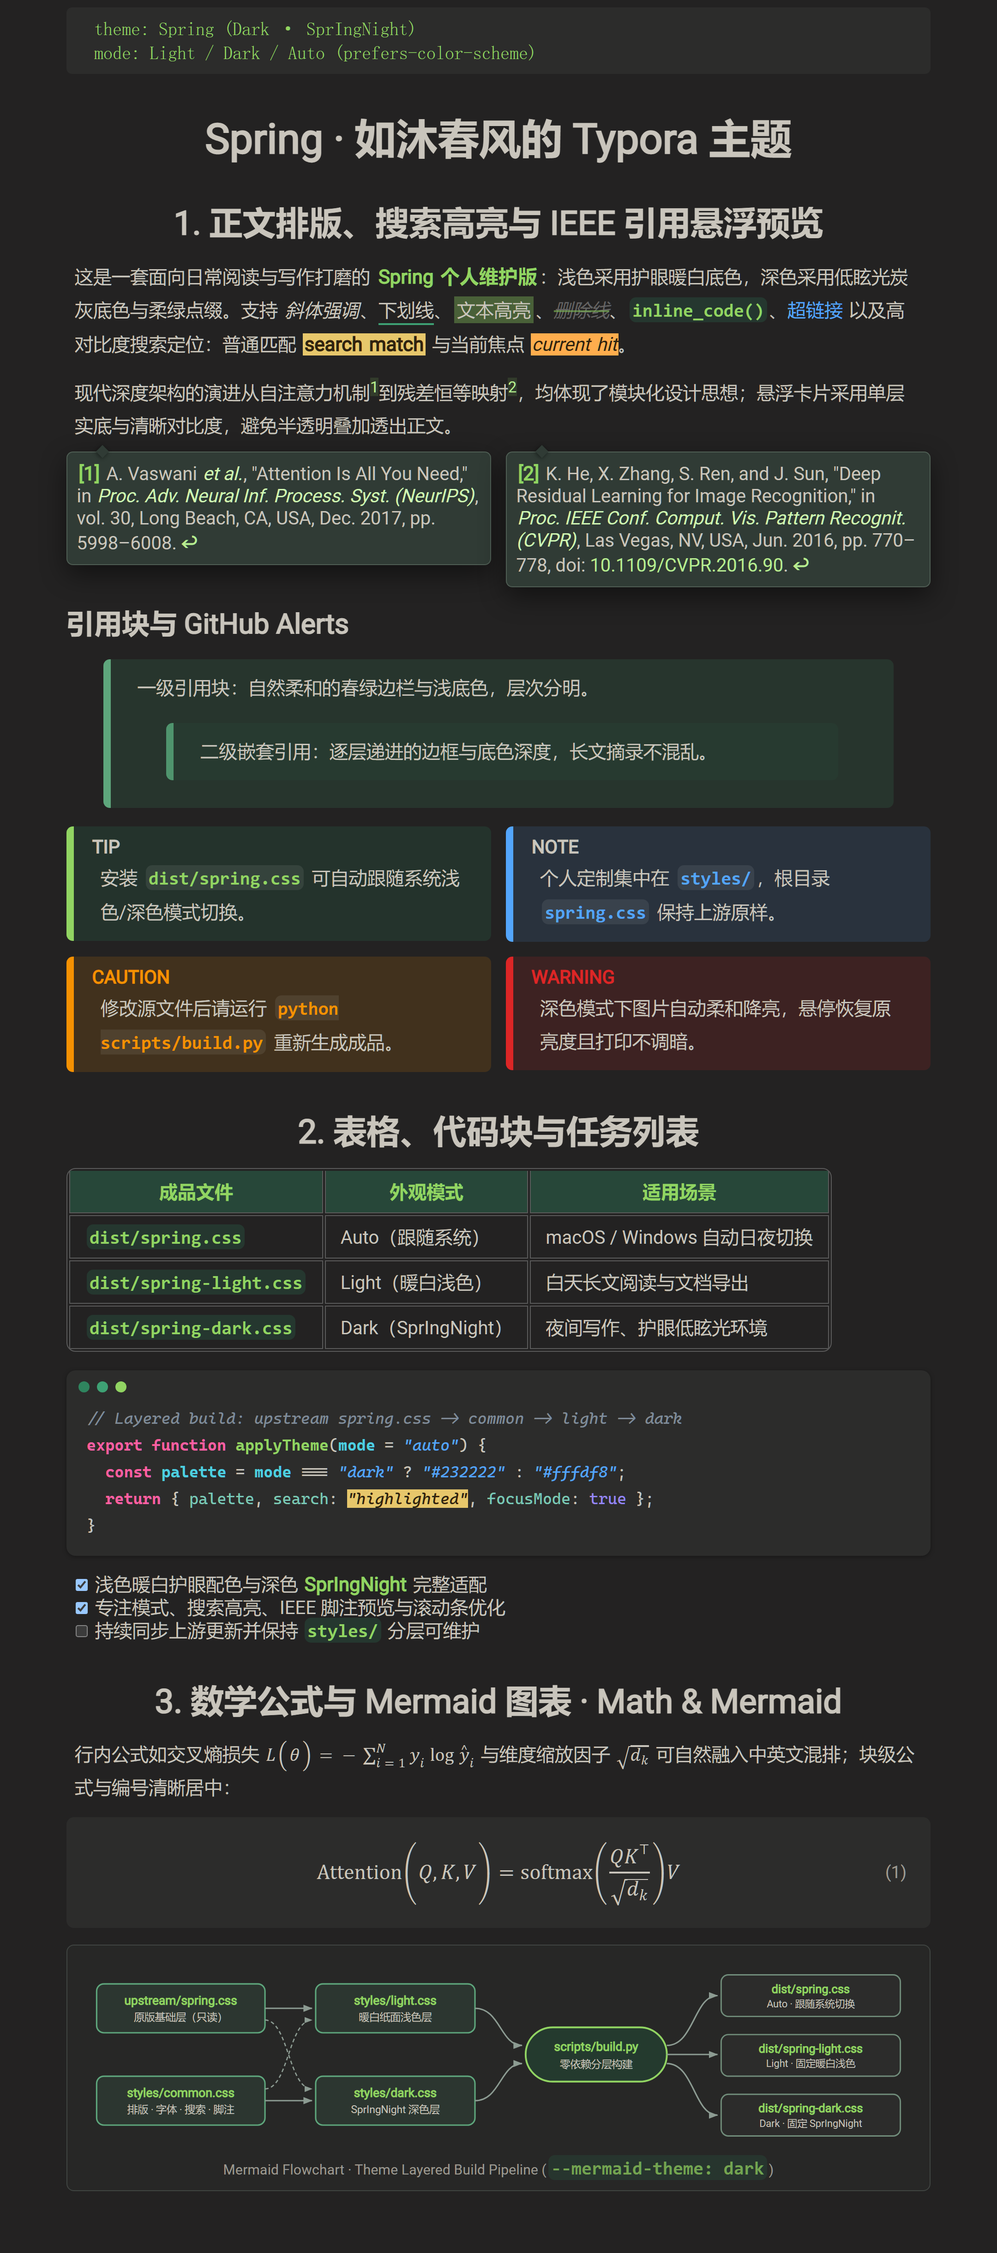
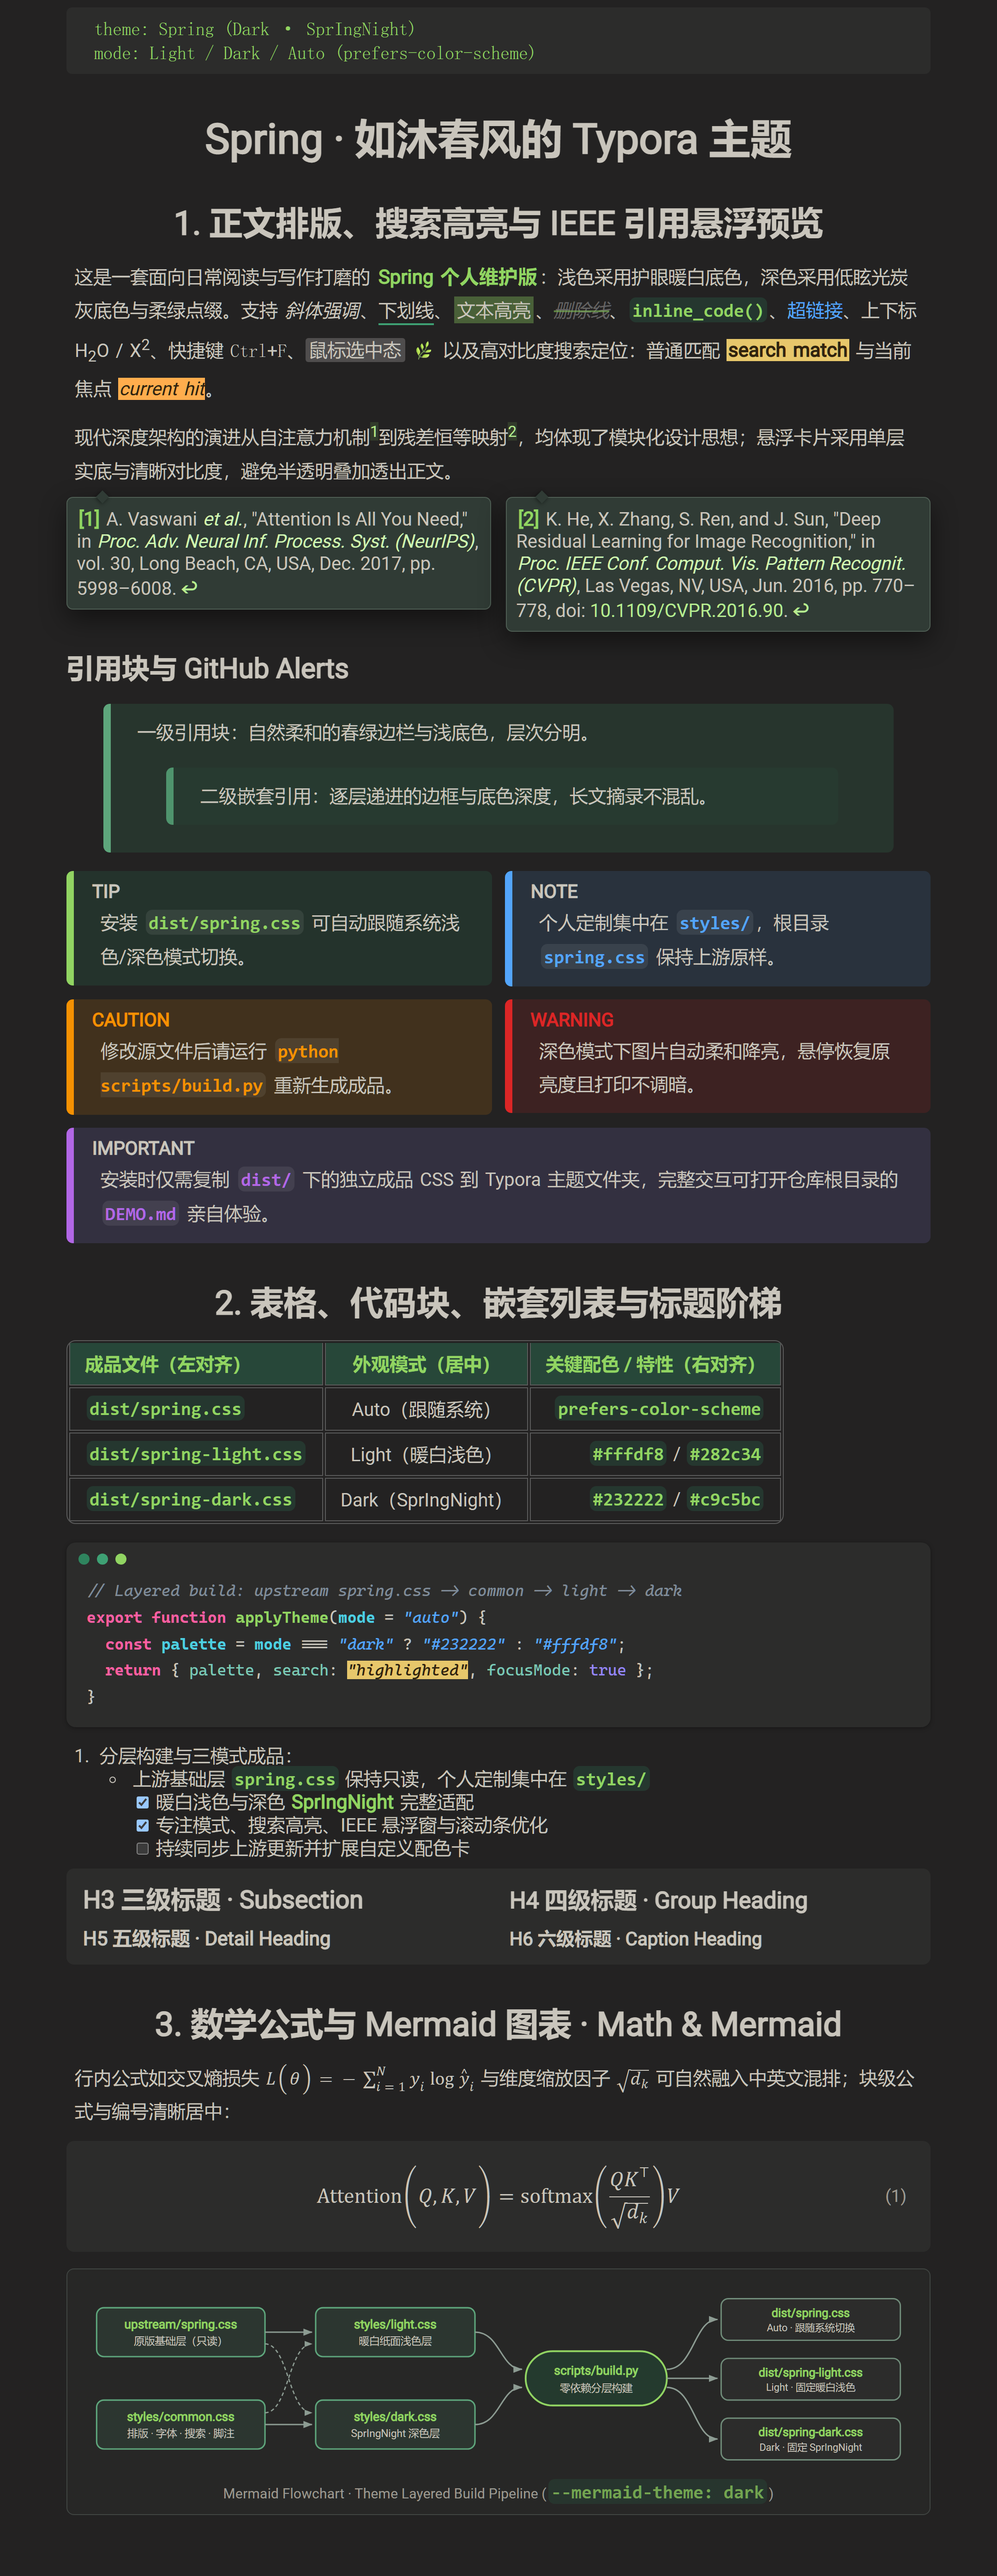
Add interactive DEMO.md and enrich light/dark theme previews

Changed region(s): [[0.062, 0.0, 0.9306, 0.9656], [0.1551, 0.0, 0.1861, 0.0311], [0.0931, 0.0, 0.1241, 0.0311]]

diff --git a/DEMO.md b/DEMO.md
@@ -1,0 +1,191 @@
+---
+theme: Spring (Light / Dark / Auto)
+branch: hy-spring
+author: Fona1347 (upstream: SprInec/typora-spring-theme)
+---
+
+# Spring Theme · 完整样式演示文档 (Demo)
+
+> [!TIP]
+> 在 Typora 中安装 [`dist/spring.css`](dist/spring.css)（自动跟随系统）、[`dist/spring-light.css`](dist/spring-light.css)（暖白浅色）或 [`dist/spring-dark.css`](dist/spring-dark.css)（SprIngNight 深色）后，直接打开本文件即可体验所有静态排版与动态交互效果（悬停反馈、专注模式、Ctrl+F 搜索高亮、脚注悬浮窗与滚动条）。
+
+## 目录 · Table of Contents
+
+[TOC]
+
+---
+
+## 1. 六级标题阶梯 · Headings (H1 – H6)
+
+# H1 一级标题 · Primary Document Title
+## H2 二级标题 · Section Heading
+### H3 三级标题 · Subsection Heading
+#### H4 四级标题 · Group Heading
+##### H5 五级标题 · Detail Heading
+###### H6 六级标题 · Caption Heading
+
+---
+
+## 2. 中英双语正文与行内元素 · Typography & Inline Styles
+
+这是一段用于测试中英文混排与行内样式的正文：**加粗强调（Bold）**、*斜体文字（Italic）*、<u>下划线（Underline）</u>、==荧光高亮（Highlight）==、~~删除线（Strikethrough）~~、`inline_code()`、[超链接样式](https://github.com/Fona1347/typora-spring-theme)、化学与数学上下标 H~2~O / X^2^、快捷键 <kbd>Ctrl</kbd> + <kbd>F</kbd> / <kbd>⌘</kbd> + <kbd>⇧</kbd> + <kbd>P</kbd>，以及 Emoji 🌿 ✨ 🌙。
+
+This paragraph showcases English typography and inline formatting: **bold emphasis**, *italic style*, <u>underlined text</u>, ==highlighted text==, ~~strikethrough~~, `python scripts/build.py`, [GitHub Repository](https://github.com/Fona1347/typora-spring-theme), superscript/subscript E = mc^2^ & CO~2~, keyboard shortcuts <kbd>Ctrl</kbd> + <kbd>Shift</kbd> + <kbd>F</kbd>, and focus/selection legibility.
+
+> **体验提示**：
+> - 按下 <kbd>Ctrl</kbd> + <kbd>F</kbd> 搜索 `Spring` 或 `code`，检查普通匹配与当前焦点在加粗、链接和代码块中的高亮对比度。
+> - 按下 <kbd>F8</kbd> 开启 **专注模式（Focus Mode）**，拖拽选中任意段落，检查非焦点段落与选中文本的可读性。
+
+---
+
+## 3. IEEE 文献引用与脚注悬浮预览 · IEEE Citations
+
+现代深度学习架构的演进从基于自注意力机制的 Transformer[^1] 到深度残差网络 ResNet[^2]，均体现了高度模块化的结构设计。将鼠标悬停在正文上标 `1` 或 `2` 上，即可预览单层实底的脚注卡片效果（不透出下方正文，文字清晰锐利）。
+
+[^1]: A. Vaswani *et al.*, "Attention Is All You Need," in *Proc. Adv. Neural Inf. Process. Syst. (NeurIPS)*, vol. 30, Long Beach, CA, USA, Dec. 2017, pp. 5998–6008.
+[^2]: K. He, X. Zhang, S. Ren, and J. Sun, "Deep Residual Learning for Image Recognition," in *Proc. IEEE Conf. Comput. Vis. Pattern Recognit. (CVPR)*, Las Vegas, NV, USA, Jun. 2016, pp. 770–778, doi: [10.1109/CVPR.2016.90](https://doi.org/10.1109/CVPR.2016.90).
+
+---
+
+## 4. 引用块与五色 GitHub Alerts · Blockquotes & Alerts
+
+### 多级嵌套引用
+
+> 一级引用块：柔和春绿边栏与浅底色，适合长文摘录。
+>
+> > 二级嵌套引用：边栏与背景逐层加深，清晰区分上下文层次。
+> >
+> > > 三级深层引用：在浅色暖白与深色炭灰下均保持良好对比度。
+
+### 全部五种 GitHub Alerts
+
+> [!NOTE]
+> **NOTE** — 根目录 `spring.css` 保持与上游 `SprInec/typora-spring-theme` 一致，个人定制集中在 `styles/` 目录。
+
+> [!TIP]
+> **TIP** — 在 `styles/` 修改完成后，运行构建与浏览器校验：
+> - `python scripts/build.py`
+> - `python scripts/build.py --check`
+> ```bash
+> node scripts/verify-browser.mjs
+> ```
+
+> [!IMPORTANT]
+> **IMPORTANT** — 请只复制 `dist/` 目录下的独立成品 CSS 到 Typora 主题文件夹，无需复制 `styles/` 或根目录 `spring.css`。
+
+> [!WARNING]
+> **WARNING** — 深色模式下文档内图片会自动柔和降亮（`brightness(0.9)`），鼠标悬停时恢复原亮度，导出 PDF/打印时不调暗。
+
+> [!CAUTION]
+> **CAUTION** — 请勿直接手动编辑 `dist/` 下的生成文件，否则下次执行 `build.py` 时会被覆盖。
+
+---
+
+## 5. 多级混合嵌套列表 · Nested Lists & Tasks
+
+1. 第一阶段：分层主题构建
+   - 保留上游基础层 `spring.css`
+   - 叠加个人样式层 `styles/common.css`、`light.css`、`dark.css`
+     - [x] 暖白浅色纸面配色（`#fffdf8`）
+     - [x] 低眩光深色 **SprIngNight**（`#232222`）
+     - [ ] 自定义扩展配色方案
+2. 第二阶段：阅读体验细节打磨
+   1. 修复搜索匹配在格式化文本与代码块中的可见性
+   2. 修复引用/脚注悬浮预览半透明叠加问题
+   3. 对齐 Typora 原生专注模式与文本选区变量
+
+---
+
+## 6. 三向对齐表格 · Tables
+
+| 成品主题（左对齐） | 外观模式（居中对齐） | 关键配色 / 参数（右对齐） |
+| :--- | :---: | ---: |
+| `dist/spring.css` | Auto（跟随系统） | `prefers-color-scheme` |
+| `dist/spring-light.css` | Light（暖白浅色） | `#fffdf8` / `#282c34` |
+| `dist/spring-dark.css` | Dark（SprIngNight） | `#232222` / `#c9c5bc` |
+
+---
+
+## 7. 多语言代码块 · Code Blocks
+
+```javascript
+// Layered theme configuration example
+export function resolveTheme(mode = "auto") {
+  const palettes = {
+    light: { bg: "#fffdf8", text: "#282c34", accent: "#2f845e" },
+    dark: { bg: "#232222", text: "#c9c5bc", accent: "#91D462" },
+  };
+  return mode === "dark" ? palettes.dark : palettes.light;
+}
+```
+
+```python
+from pathlib import Path
+
+def list_dist_themes(root: Path) -> list[str]:
+    """Return all standalone generated Typora CSS files."""
+    return sorted(p.name for p in (root / "dist").glob("*.css"))
+```
+
+---
+
+## 8. 数学公式 · Mathematics
+
+行内公式示例：交叉熵损失 $\mathcal{L}(\theta) = -\sum_{i=1}^{N} y_i \log \hat{y}_i$ 与缩放因子 $\sqrt{d_k}$ 可自然融入中英文混排。
+
+块级单行公式（Scaled Dot-Product Attention）：
+
+$$
+\text{Attention}(Q, K, V) = \text{softmax}\!\left(\frac{Q K^{\top}}{\sqrt{d_k}}\right) V
+$$
+
+多行对齐公式（`aligned`）：
+
+$$
+\begin{aligned}
+\nabla_{\theta} \mathcal{L}(\theta) &= \mathbb{E}_{(x, y) \sim \mathcal{D}} \left[ \nabla_{\theta} \ell(f_{\theta}(x), y) \right] \\
+\theta_{t+1} &= \theta_t - \eta \cdot \frac{\hat{m}_t}{\sqrt{\hat{v}_t} + \epsilon}
+\end{aligned}
+$$
+
+---
+
+## 9. Mermaid 图表 · Diagrams
+
+### 流程图（Flowchart）
+
+```mermaid
+flowchart LR
+    U[upstream/spring.css] --> L[styles/light.css]
+    U --> D[styles/dark.css]
+    C[styles/common.css] --> L
+    C --> D
+    L --> B((scripts/build.py))
+    D --> B
+    B --> O1[dist/spring.css · Auto]
+    B --> O2[dist/spring-light.css · Light]
+    B --> O3[dist/spring-dark.css · Dark]
+```
+
+### 状态图（State Diagram）
+
+```mermaid
+stateDiagram-v2
+    [*] --> AutoMode
+    AutoMode --> LightTheme : prefers-color-scheme light
+    AutoMode --> DarkTheme : prefers-color-scheme dark
+    LightTheme --> DarkTheme : OS sunset switch
+    DarkTheme --> LightTheme : OS sunrise switch
+```
+
+### 甘特图（Gantt Chart）
+
+```mermaid
+gantt
+    title Spring Personal Theme Workflow
+    dateFormat YYYY-MM-DD
+    section Maintenance
+    Sync upstream main       :done,    s1, 2026-11-01, 2d
+    Edit styles/ layers      :active,  s2, after s1, 3d
+    Run build.py & verify    :         s3, after s2, 1d
+```

diff --git a/README.md b/README.md
@@ -17,7 +17,7 @@
 </p>
 
 <p align="center">
-  <strong>English</strong> · <a href="./README_cn.md">简体中文</a> · <a href="./CUSTOMIZATION.md">Maintenance &amp; Sync Guide</a>
+  <strong>English</strong> · <a href="./README_cn.md">简体中文</a> · <a href="./DEMO.md">Interactive Demo (<code>DEMO.md</code>)</a> · <a href="./CUSTOMIZATION.md">Maintenance &amp; Sync Guide</a>
 </p>
 
 > **Branch guide:** This fork uses **`hy-spring`** as its default branch. Install the standalone themes directly from [`dist/`](dist/), and edit [`styles/`](styles/) for personal overrides. Root [`spring.css`](spring.css) stays identical to upstream `main` (`SprInec/typora-spring-theme`) for clean upstream syncing.

diff --git a/README_cn.md b/README_cn.md
@@ -17,7 +17,7 @@
 </p>
 
 <p align="center">
-  <a href="./README.md">English</a> · <strong>简体中文</strong> · <a href="./CUSTOMIZATION.md">个人版维护与同步说明</a>
+  <a href="./README.md">English</a> · <strong>简体中文</strong> · <a href="./DEMO.md">本地演示文档（<code>DEMO.md</code>）</a> · <a href="./CUSTOMIZATION.md">个人版维护与同步说明</a>
 </p>
 
 > **分支说明：** 本仓库默认分支为 **`hy-spring`**。日常使用直接从 [`dist/`](dist/) 安装三款独立成品主题；个性化调整写在 [`styles/`](styles/) 中。根目录 [`spring.css`](spring.css) 与 `main` 分支始终保持上游原样，便于后续同步原作者更新。
